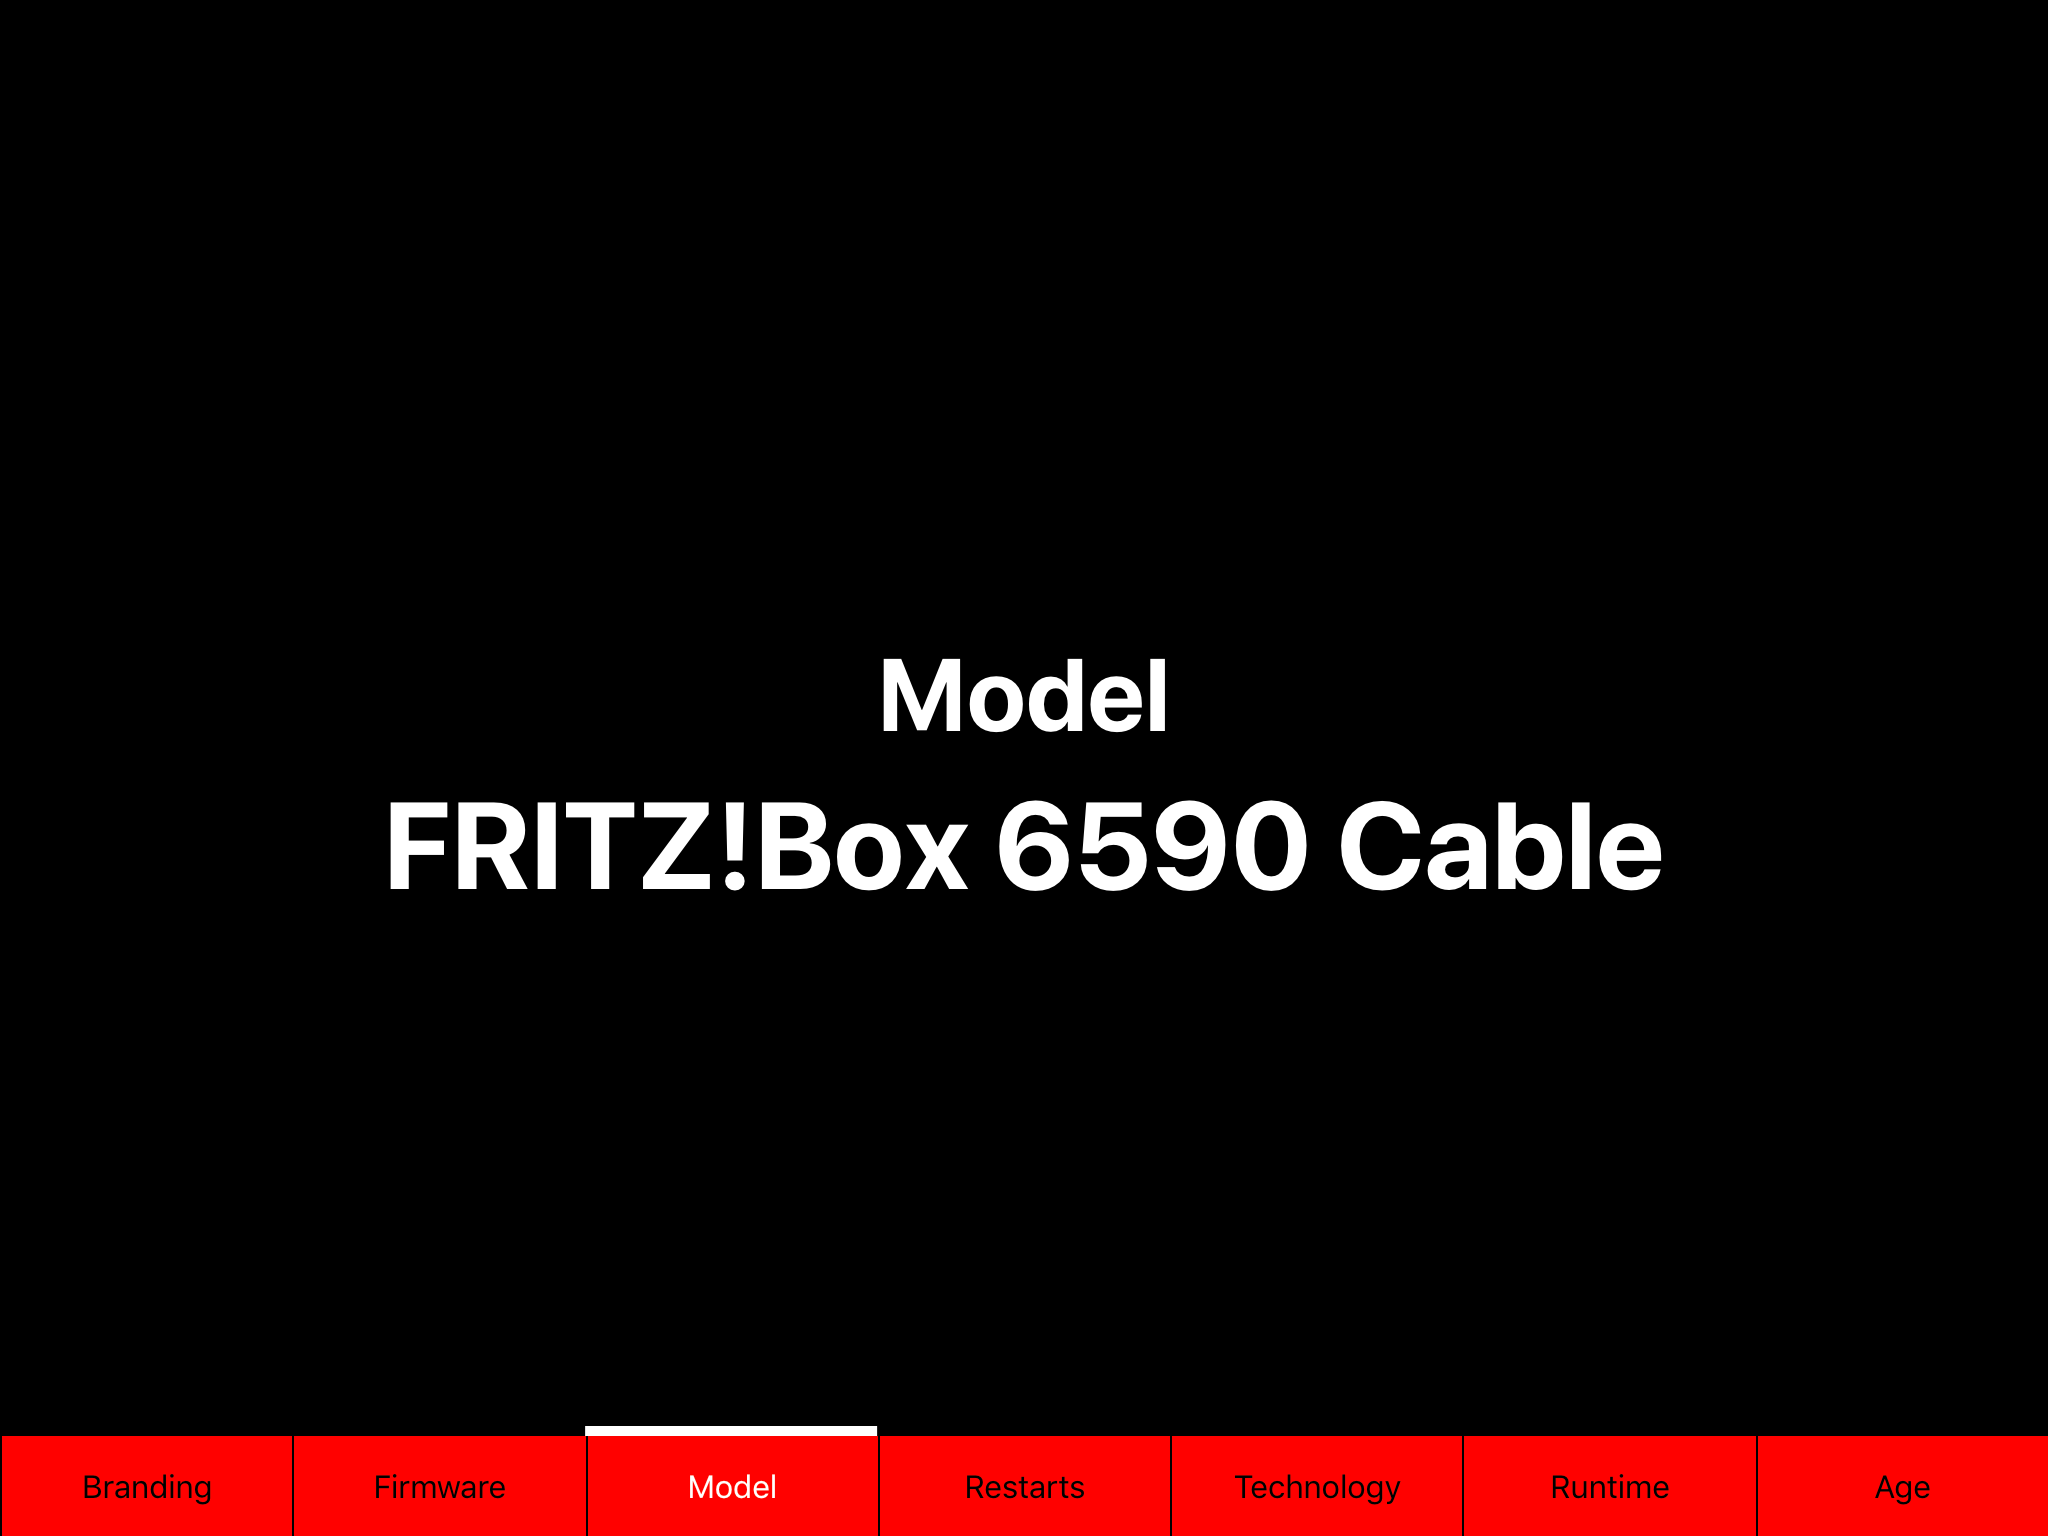
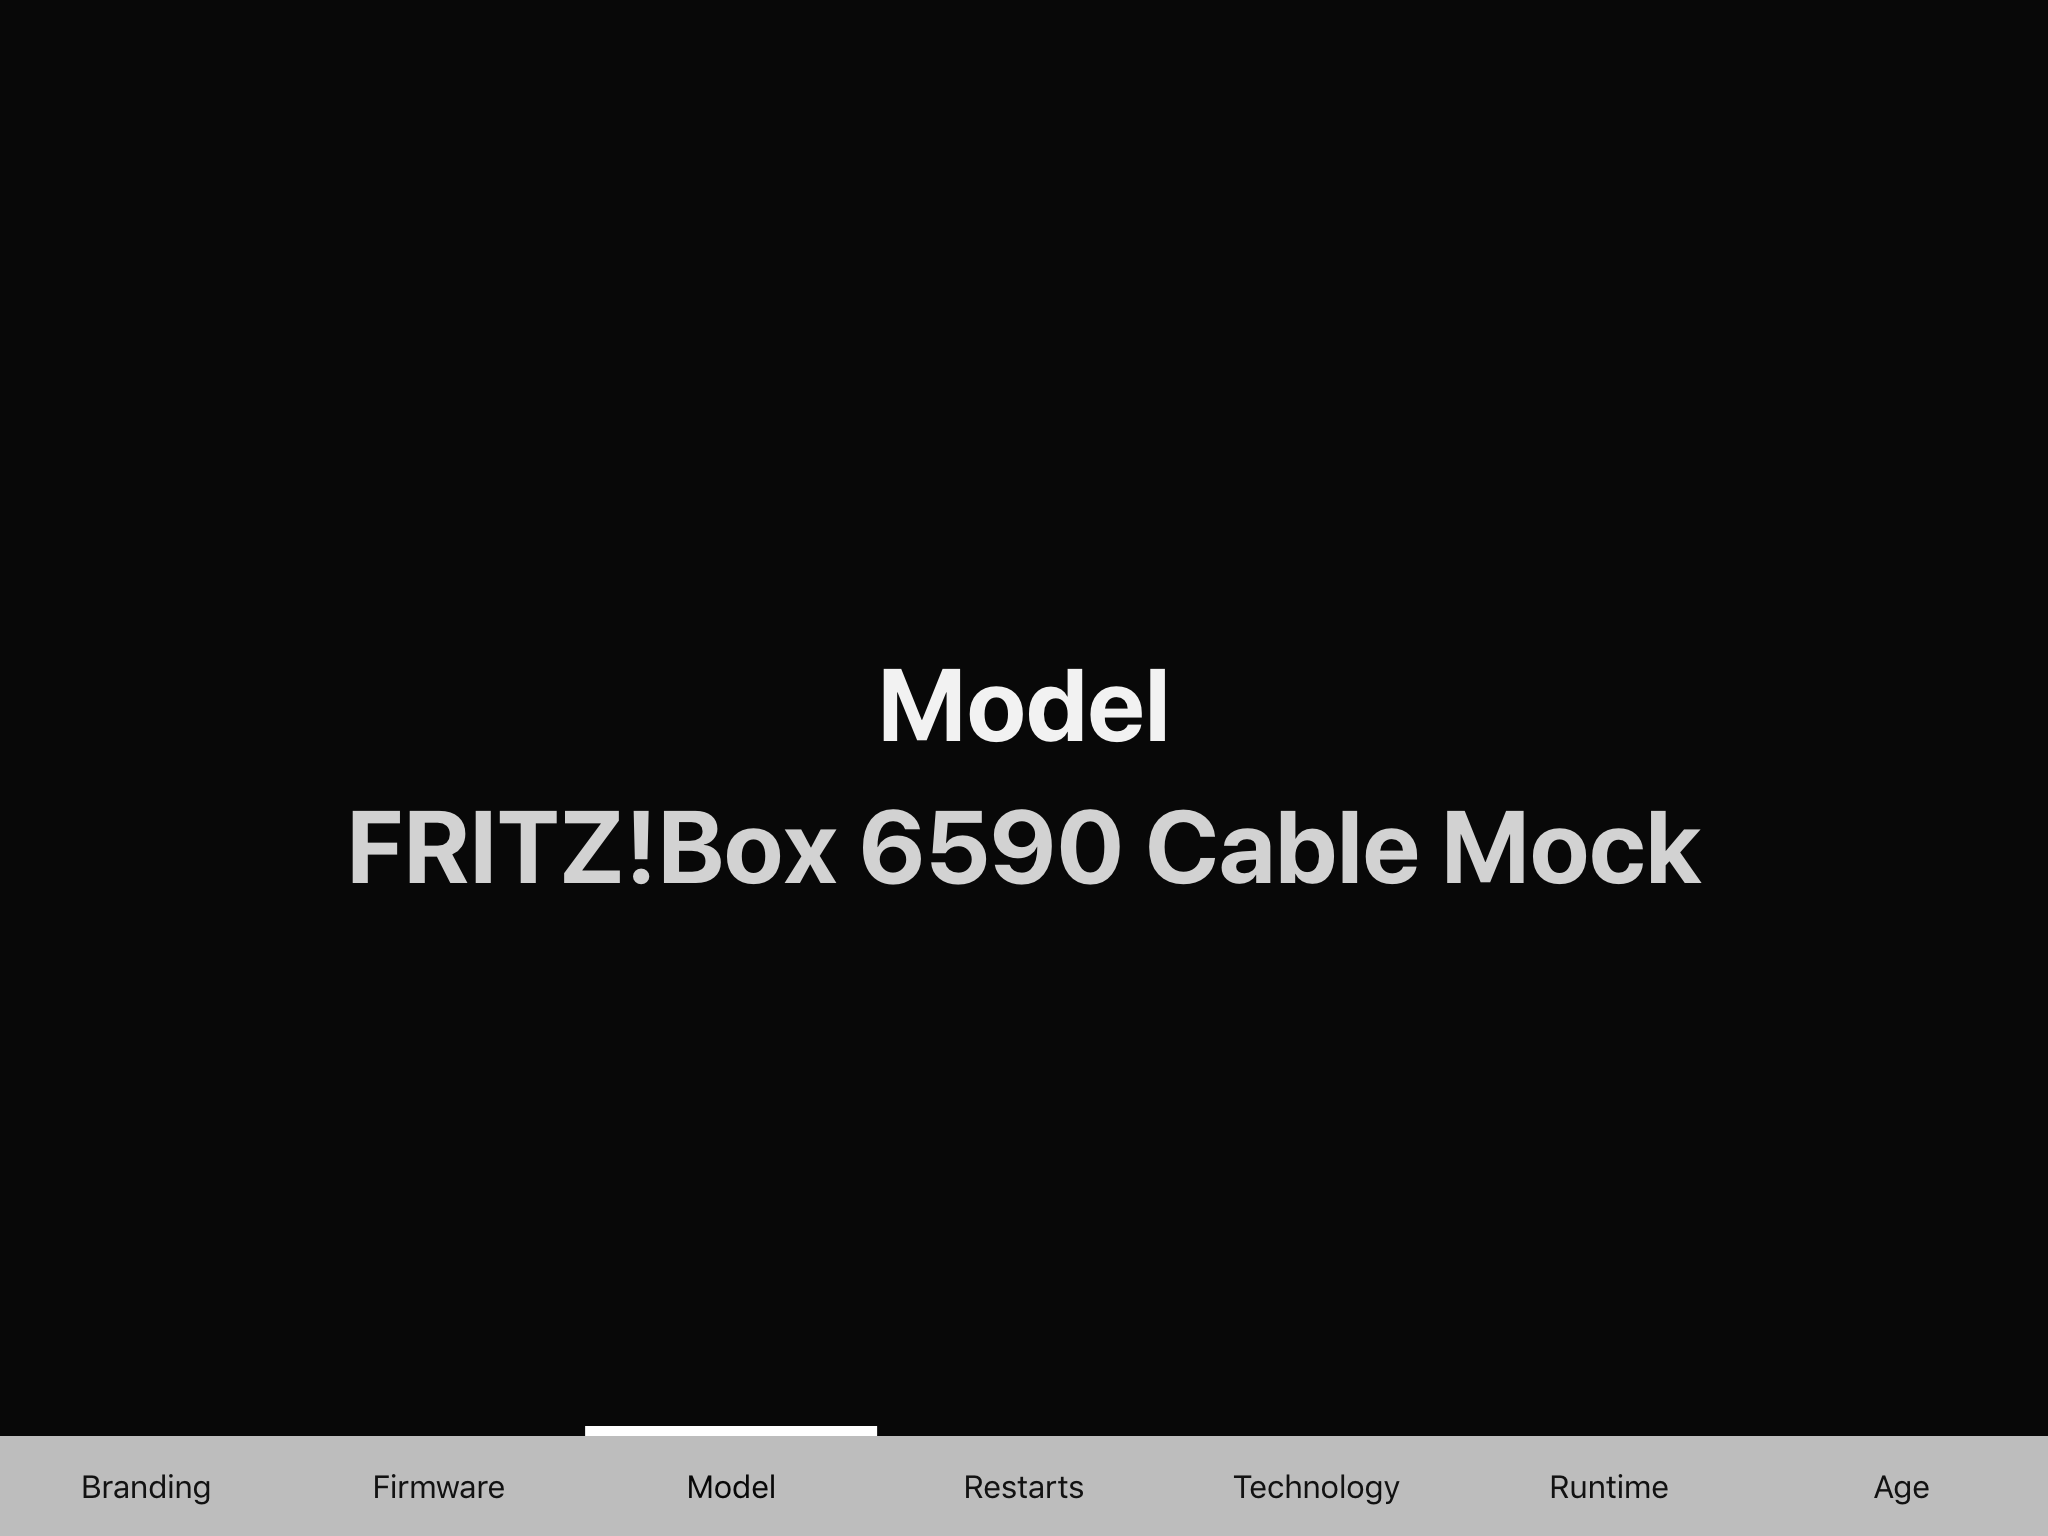
Updated colors, tests and readme

Changed region(s): [[0.1562, 0.4062, 0.8438, 0.5938], [0.0, 0.9375, 1.0, 1.0]]

diff --git a/src/components/NavBarEntry.test.js b/src/components/NavBarEntry.test.js
@@ -37,7 +37,7 @@ describe('NavBarEntry', () => {
   });
 
   it('Test click event', () => {
-    //wrapper.find('NavBarEntryWrapper').simulate('click');
+    // wrapper.find('NavBarEntryWrapper').simulate('click');
     wrapper.find('NavBarEntryWrapper').props().onClick();
     wrapper.update();
 
@@ -48,9 +48,9 @@ describe('NavBarEntry', () => {
   it('NavBarButton has correct styling', () => {
     const wrapperDeep = mount(<NavBarEntry />);
 
-    expect(wrapperDeep.find('NavBarButton')).toHaveStyleRule('color', 'black');
+    expect(wrapperDeep.find('NavBarButton')).toHaveStyleRule('color', '#121212');
 
     wrapperDeep.setProps({ isActive: true });
-    expect(wrapperDeep.find('NavBarButton')).toHaveStyleRule('color', 'white');
+    expect(wrapperDeep.find('NavBarButton')).toHaveStyleRule('color', '#080808');
   });
 });

diff --git a/src/components/NavBarEntry.js b/src/components/NavBarEntry.js
@@ -7,7 +7,6 @@ const NavBarEntryWrapper = styled.li`
   flex-grow: 1;
   flex-shrink: 0;
   flex-basis: 0;
-  border-left: 1px solid black;
 `;
 
 const defaultButton = styled.button`
@@ -22,7 +21,7 @@ const NavBarButton = styled(defaultButton)`
   width: 100%;
   border: 0;
   font-size: 1rem;
-  color: ${props => (props.isActive ? 'white' : 'black')};
+  color: ${props => (props.isActive ? '#080808' : '#121212')};
   transition: color 500ms;
 `;
 

diff --git a/src/components/Slide.js b/src/components/Slide.js
@@ -13,7 +13,7 @@ const TitleWrapper = styled.h2`
   margin-top: 0;
   margin-bottom: 2vh;
   font-size: 5vw;
-  color: white;
+  color: #F2F2F2;
 `;
 
 const TextWrapper = styled.div`
@@ -21,7 +21,7 @@ const TextWrapper = styled.div`
   font-size: ${props => Math.floor(100 / props.characterCount * 1.35)}vw;
   line-height: 1;
   font-weight: bold;
-  color: white;
+  color: #D2D2D2;
 `;
 
 const TextComponent = (props) => {

diff --git a/src/components/NavBar.js b/src/components/NavBar.js
@@ -54,7 +54,7 @@ const NavBarList = styled.ul`
   justify-content: space-between;
   flex-wrap: wrap;
   list-style: none;
-  background: red;
+  background: #BDBDBD;
 `;
 
 class Navbar extends Component {

diff --git a/src/App.js b/src/App.js
@@ -16,7 +16,7 @@ const AppWrapper = styled.div`
   height: 100%;
   justify-content: stretch;
   align-self: stretch;
-  background: black;
+  background: #080808;
 `;
 
 const App = (props) => {

diff --git a/README.md b/README.md
@@ -1,6 +1,22 @@
 # Fritz-box-challenge
 
-Make http://fritz.box/cgi-bin/system_status human readable with react.
+Make system status of fritzbox(https://en.wikipedia.org/wiki/Fritz!Box) human readable with react.
 
 ![Screenshot](screenshot.png?raw=true "Screenshot")
-![Screenshot](screenrecording.gif?raw=true "Screenrecording")
+
+### Start witrh dummy data
+
+```
+yarn start:dev
+npm run start:dev
+
+```
+
+### Start with real data
+
+```
+yarn start
+npm run start
+
+```
+
